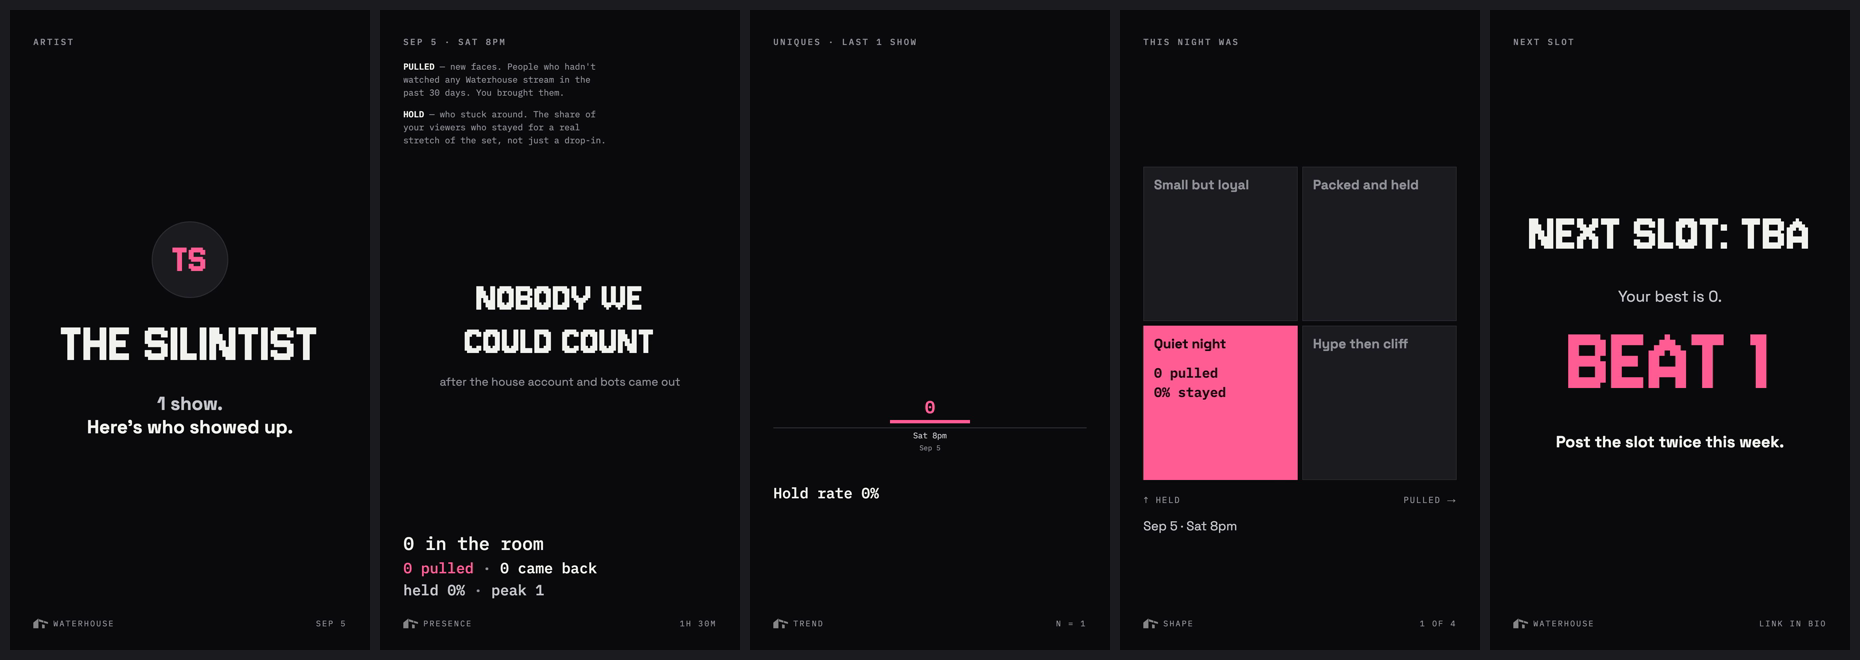
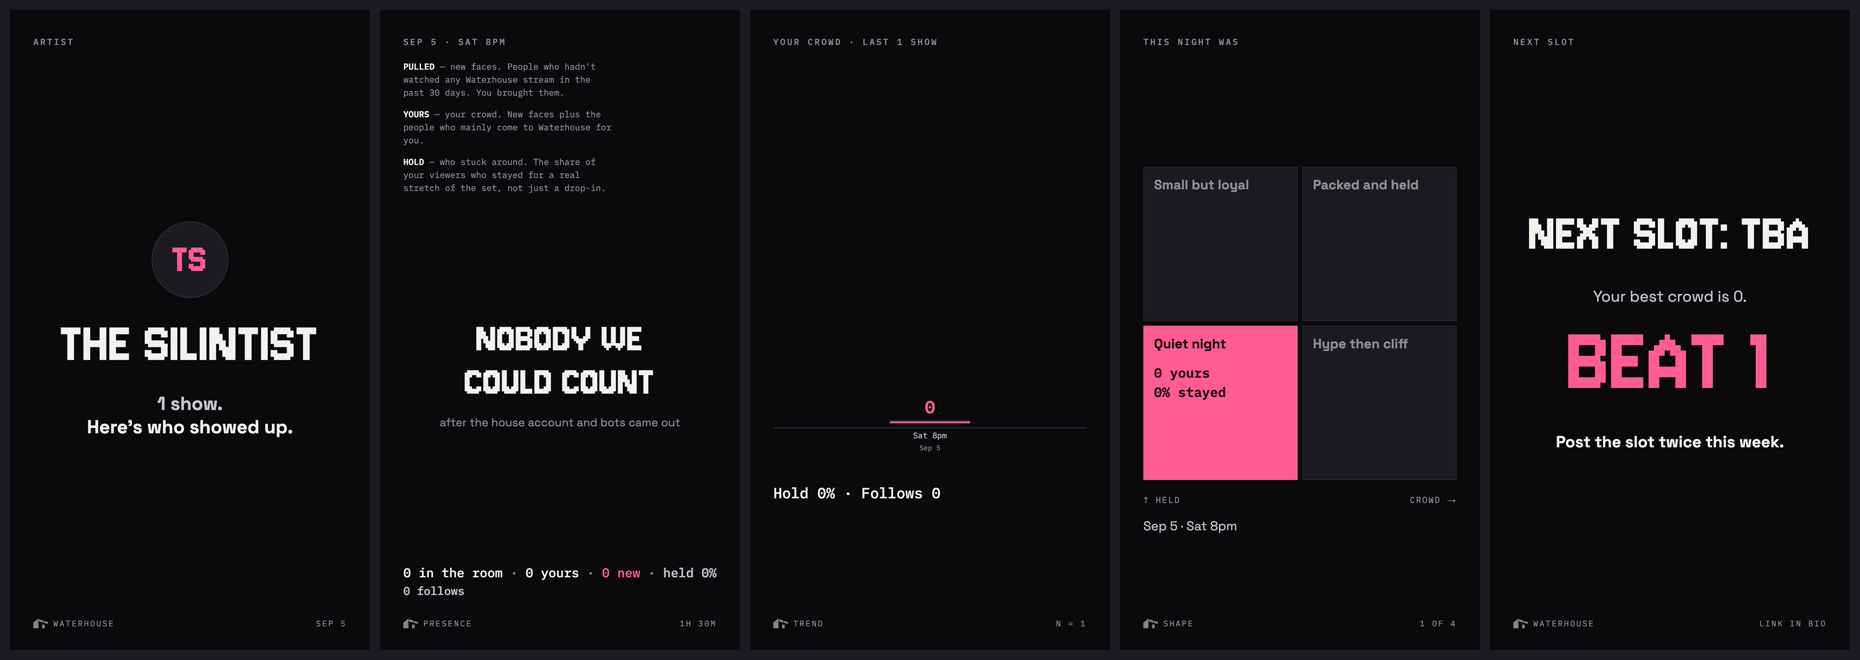
remotion-6: spec v2 - rank on crowd, add follows and spoke
The operator changed the ranking model after seeing real data: an artist who
built a loyal audience months ago was being penalised for bringing it back.
Crowd (pulled + returning) is the number the recap now leads on; pulled, hold
and follows become the substats under it.

Schema, mirroring the canonical copy in remotion-5:
  Viewer.kind      cameBack -> returning
  SessionAudience  drop cameBack; add returning, crowd, follows,
                   chat { messages, chatters } | null
  ArtistRecapProps add bestCrowd

Composition:
  bars   fills are pulled / returning / regular, swatches renamed to match.
         Two count lines: the crowd line, then follows and spoke. Spoke comes
         from chat.chatters and is omitted outright when chat is null - a
         show from before capture shipped never renders a 0 or a dash.
         Glossary gains YOURS between PULLED and HOLD; the plot and count
         lines move down again to keep the bars their size.
  trend  bars are crowd with the whole room faint behind them, so the share
         an artist brought is visible against the room they played to.
         Second line carries hold and follows.
  shape  crowd on the x axis, "{crowd} yours" in the box.
  ask    best crowd plus one, and packed-held now asks for the follow.

The HouseWeekly half of the schema copy is deliberately untouched - spec v2
reworks it too (five badges, ranked on crowd), and that belongs to the
audience-data and HouseWeekly issues.
[…]

diff --git a/src/ArtistRecap.tsx b/src/ArtistRecap.tsx
@@ -45,10 +45,10 @@ const LINE = "#2B2B31";
 const PANEL = "#1B1B1F";
 const ACCENT = "#FF5C93";
 
-// Fill by kind: you pulled them (accent), they came back (ink), house (grey).
+// Fill by kind: new faces (accent), your returning people (ink), house (grey).
 const KIND_COLOR: Record<Viewer["kind"], string> = {
   pulled: ACCENT,
-  cameBack: INK,
+  returning: INK,
   regular: GREY,
 };
 
@@ -133,16 +133,19 @@ const EMPTY_SESSION: SessionAudience = {
   peak: 0,
   uniques: 0,
   pulled: 0,
-  cameBack: 0,
+  returning: 0,
   regulars: 0,
+  crowd: 0,
   holdRate: 0,
+  follows: 0,
+  chat: null,
   quadrant: "quiet",
   shared: false,
   viewers: [],
 };
 
 const COACHING: Record<Quadrant, string> = {
-  "packed-held": "Do it again.",
+  "packed-held": "Do it again. Ask them to follow.",
   "hype-cliff": "Ask 3 friends to stay 20 min.",
   "small-loyal": "Tell 3 more people.",
   quiet: "Post the slot twice this week.",
@@ -155,7 +158,7 @@ const QUADRANT_LABEL: Record<Quadrant, string> = {
   "hype-cliff": "Hype then cliff",
 };
 
-// Reading order of the 2x2: x = pulled (few -> many), y = held (held on top).
+// Reading order of the 2x2: x = crowd (small -> big), y = held (held on top).
 const QUADRANT_GRID: Quadrant[] = [
   "small-loyal",
   "packed-held",
@@ -421,9 +424,9 @@ const TypedLine: React.FC<{
 const CHART_LEFT = PAD + 108;
 const CHART_RIGHT = W - PAD;
 const CHART_WIDTH = CHART_RIGHT - CHART_LEFT;
-const CHART_TOP = 500;
-const CHART_BOTTOM = 1440;
-const COUNT_LINE_TOP = 1560;
+const CHART_TOP = 645;
+const CHART_BOTTOM = 1540;
+const COUNT_LINE_TOP = 1660;
 const GLOSSARY_TOP = 150;
 // ~40 mono chars at 26px, which is where both entries break to three lines.
 const GLOSSARY_WIDTH = 630;
@@ -435,6 +438,10 @@ const GLOSSARY: { term: string; text: string }[] = [
   {
     term: "PULLED",
     text: " \u2014 new faces. People who hadn't watched any Waterhouse stream in the past 30 days. You brought them.",
+  },
+  {
+    term: "YOURS",
+    text: " \u2014 your crowd. New faces plus the people who mainly come to Waterhouse for you.",
   },
   {
     term: "HOLD",
@@ -476,21 +483,31 @@ const WhoShowedUp: React.FC<{ session: SessionAudience }> = ({ session }) => {
   const ticks: number[] = [];
   for (let m = 30; m < dur; m += 30) ticks.push(m);
 
+  const dot: Chunk = { text: " · ", color: GREY };
   const line1: Chunk[] = [
     { text: `${session.uniques} in the room`, color: INK },
-  ];
-  const line2: Chunk[] = [
-    { text: `${session.pulled} pulled`, color: ACCENT },
-    { text: " · ", color: GREY },
-    { text: `${session.cameBack} came back`, color: INK },
-  ];
-  const line3: Chunk[] = [
+    dot,
+    { text: `${session.crowd} yours`, color: INK },
+    dot,
+    { text: `${session.pulled} new`, color: ACCENT },
+    dot,
     { text: `held ${pct(session.holdRate)}%`, color: INK_2 },
-    { text: " · ", color: GREY },
-    { text: `peak ${session.peak}`, color: INK_2 },
+  ];
+  // Spoke only exists for shows after chat capture shipped. No zero, no dash -
+  // the part is simply not there.
+  const line2: Chunk[] = [
+    {
+      text: `${session.follows} follow${session.follows === 1 ? "" : "s"}`,
+      color: INK_2,
+    },
+    ...(session.chat
+      ? [dot, { text: `${session.chat.chatters} spoke`, color: INK_2 }]
+      : []),
   ];
   const len = (cs: Chunk[]) => cs.reduce((n, c) => n + c.text.length, 0);
-  const total = len(line1) + len(line2) + len(line3);
+  const total = len(line1) + len(line2);
+  // The crowd line runs to ~43 characters; shrink rather than wrap it.
+  const line1Size = Math.min(40, CONTENT_W / (len(line1) * 0.6));
   const typed = Math.floor(
     interpolate(frame, [TYPE_START, TYPE_END], [0, total], {
       extrapolateLeft: "clamp",
@@ -705,8 +722,8 @@ const WhoShowedUp: React.FC<{ session: SessionAudience }> = ({ session }) => {
           >
             {(
               [
-                ["Pulled", ACCENT],
-                ["Came back", INK],
+                ["Pulled (new)", ACCENT],
+                ["Returning (yours)", INK],
                 ["Regular", GREY],
               ] as const
             ).map(([label, color]) => (
@@ -737,13 +754,8 @@ const WhoShowedUp: React.FC<{ session: SessionAudience }> = ({ session }) => {
           width: CONTENT_W,
         }}
       >
-        <TypedLine chunks={line1} revealed={typed} fontSize={54} />
-        <TypedLine chunks={line2} revealed={typed - len(line1)} fontSize={44} />
-        <TypedLine
-          chunks={line3}
-          revealed={typed - len(line1) - len(line2)}
-          fontSize={44}
-        />
+        <TypedLine chunks={line1} revealed={typed} fontSize={line1Size} />
+        <TypedLine chunks={line2} revealed={typed - len(line1)} fontSize={34} />
       </div>
     </Chrome>
   );
@@ -757,17 +769,18 @@ const BAR_STAGGER = 7;
 
 const Trend: React.FC<{
   sessions: SessionAudience[];
-  bestUniques: number;
-}> = ({ sessions, bestUniques }) => {
+  bestCrowd: number;
+}> = ({ sessions, bestCrowd }) => {
   const frame = useCurrentFrame();
   const { fps } = useVideoConfig();
 
   const n = Math.max(sessions.length, 1);
+  // Uniques set the scale, since the faint room bar is always the taller one.
   const maxU = Math.max(1, ...sessions.map((s) => s.uniques));
   const newest = sessions[sessions.length - 1] ?? EMPTY_SESSION;
   const prev = sessions.length > 1 ? sessions[sessions.length - 2] : null;
   // A drop lands flat. Never punch a regression.
-  const rose = prev ? newest.uniques >= prev.uniques : true;
+  const rose = prev ? newest.crowd >= prev.crowd : true;
 
   const gap = 28;
   const barW = Math.min(240, (CONTENT_W - gap * (n - 1)) / n);
@@ -778,13 +791,14 @@ const Trend: React.FC<{
   const newestPunch = rose ? punch(frame, lastIn + 12, lastIn + 44, 0.07) : 1;
 
   const holdText = prev
-    ? `Hold rate ${pct(prev.holdRate)} → ${pct(newest.holdRate)}%`
-    : `Hold rate ${pct(newest.holdRate)}%`;
-  const isBest = sessions.length > 1 && newest.uniques >= bestUniques;
+    ? `Hold ${pct(prev.holdRate)} → ${pct(newest.holdRate)}% · ` +
+      `Follows ${prev.follows} → ${newest.follows}`
+    : `Hold ${pct(newest.holdRate)}% · Follows ${newest.follows}`;
+  const isBest = sessions.length > 1 && newest.crowd >= bestCrowd;
 
   return (
     <Chrome
-      eyebrow={`Uniques · last ${n} ${n === 1 ? "show" : "shows"}`}
+      eyebrow={`Your crowd · last ${n} ${n === 1 ? "show" : "shows"}`}
       left="TREND"
       right={`N = ${n}`}
     >
@@ -795,10 +809,23 @@ const Trend: React.FC<{
           config: { damping: 16, stiffness: 130, mass: 0.8 },
         });
         const isNewest = i === sessions.length - 1;
-        const h = Math.max(10, (s.uniques / maxU) * TREND_MAX_H) * grow;
+        const roomH = Math.max(10, (s.uniques / maxU) * TREND_MAX_H) * grow;
+        const h = Math.max(6, (s.crowd / maxU) * TREND_MAX_H) * grow;
         const x = rowLeft + i * (barW + gap);
         return (
           <div key={i}>
+            {/* The whole room, faint: the crowd bar is a share of it. */}
+            <div
+              style={{
+                position: "absolute",
+                left: x,
+                top: TREND_BASE - roomH,
+                width: barW,
+                height: roomH,
+                background: PANEL,
+                borderTop: `2px solid ${LINE}`,
+              }}
+            />
             <div
               style={{
                 position: "absolute",
@@ -815,7 +842,7 @@ const Trend: React.FC<{
               style={{
                 position: "absolute",
                 left: x,
-                top: TREND_BASE - h - 78,
+                top: TREND_BASE - roomH - 78,
                 width: barW,
                 textAlign: "center",
                 fontFamily: monoFont,
@@ -825,7 +852,7 @@ const Trend: React.FC<{
                 opacity: grow,
               }}
             >
-              {s.uniques}
+              {s.crowd}
             </div>
             {/* Every bar carries its slot. A drop with a time under it is
                 information; a drop alone is shame. */}
@@ -980,7 +1007,7 @@ const Shape: React.FC<{ session: SessionAudience }> = ({ session }) => {
                   opacity: numbers,
                 }}
               >
-                {session.pulled} pulled
+                {session.crowd} yours
                 <br />
                 {pct(session.holdRate)}% stayed
               </div>
@@ -1019,7 +1046,7 @@ const Shape: React.FC<{ session: SessionAudience }> = ({ session }) => {
         }}
       >
         <span>↑ HELD</span>
-        <span>PULLED →</span>
+        <span>CROWD →</span>
       </div>
 
       <div
@@ -1053,9 +1080,9 @@ function interpolateColorInk(t: number): string {
 // --- Beat 5 · The ask (495-600) ------------------------------------------
 const Ask: React.FC<{
   nextSlot: ArtistRecapProps["nextSlot"];
-  bestUniques: number;
+  bestCrowd: number;
   quadrant: Quadrant;
-}> = ({ nextSlot, bestUniques, quadrant }) => {
+}> = ({ nextSlot, bestCrowd, quadrant }) => {
   const frame = useCurrentFrame();
   const { fps } = useVideoConfig();
 
@@ -1066,7 +1093,7 @@ const Ask: React.FC<{
   });
   const slotScale = interpolate(slotIn, [0, 1], [1.3, 1]);
   const beatPunch = punch(frame, 30, 66, 0.09);
-  const target = bestUniques + 1;
+  const target = bestCrowd + 1;
   const beatText = `BEAT ${target}`;
 
   const slotHeadline = nextSlot
@@ -1119,7 +1146,7 @@ const Ask: React.FC<{
             opacity: fadeIn(frame, 20, 12),
           }}
         >
-          Your best is {bestUniques}.
+          Your best crowd is {bestCrowd}.
         </div>
 
         <div
@@ -1161,7 +1188,7 @@ export const ArtistRecap: React.FC<ArtistRecapProps> = ({
   artistName,
   artistImage,
   sessions,
-  bestUniques,
+  bestCrowd,
   nextSlot,
 }) => {
   const newest =
@@ -1183,7 +1210,7 @@ export const ArtistRecap: React.FC<ArtistRecapProps> = ({
       </Sequence>
 
       <Sequence from={TREND_FROM} durationInFrames={TREND_LEN}>
-        <Trend sessions={sessions} bestUniques={bestUniques} />
+        <Trend sessions={sessions} bestCrowd={bestCrowd} />
       </Sequence>
 
       <Sequence from={SHAPE_FROM} durationInFrames={SHAPE_LEN}>
@@ -1193,7 +1220,7 @@ export const ArtistRecap: React.FC<ArtistRecapProps> = ({
       <Sequence from={ASK_FROM} durationInFrames={ASK_LEN}>
         <Ask
           nextSlot={nextSlot}
-          bestUniques={bestUniques}
+          bestCrowd={bestCrowd}
           quadrant={newest.quadrant}
         />
       </Sequence>

diff --git a/src/Root.tsx b/src/Root.tsx
@@ -89,15 +89,20 @@ const recapFallbackProps: ArtistRecapProps = {
       peak: 1,
       uniques: 0,
       pulled: 0,
-      cameBack: 0,
+      returning: 0,
       regulars: 0,
+      crowd: 0,
       holdRate: 0,
+      follows: 0,
+      // Before chat capture shipped, so spoke is omitted rather than shown as 0.
+      chat: null,
       quadrant: "quiet",
       shared: false,
       viewers: [],
     },
   ],
   bestUniques: 0,
+  bestCrowd: 0,
   nextSlot: null,
 };
 
